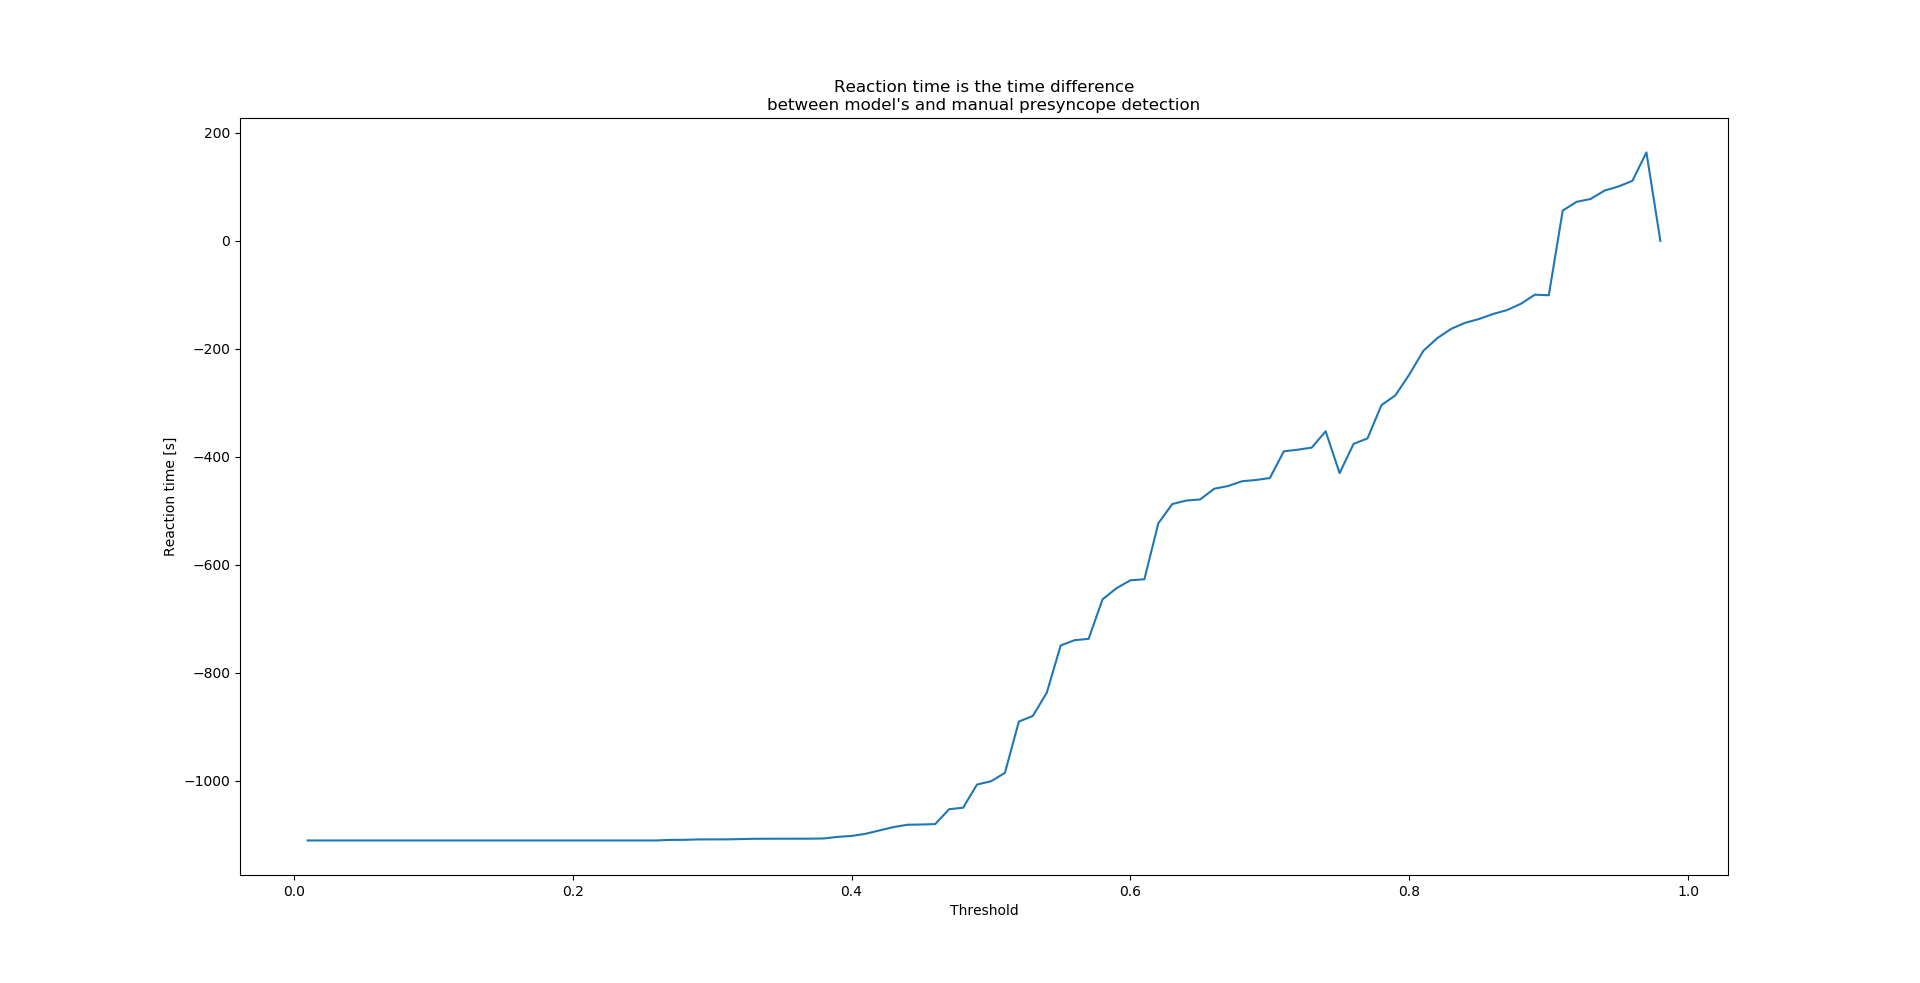
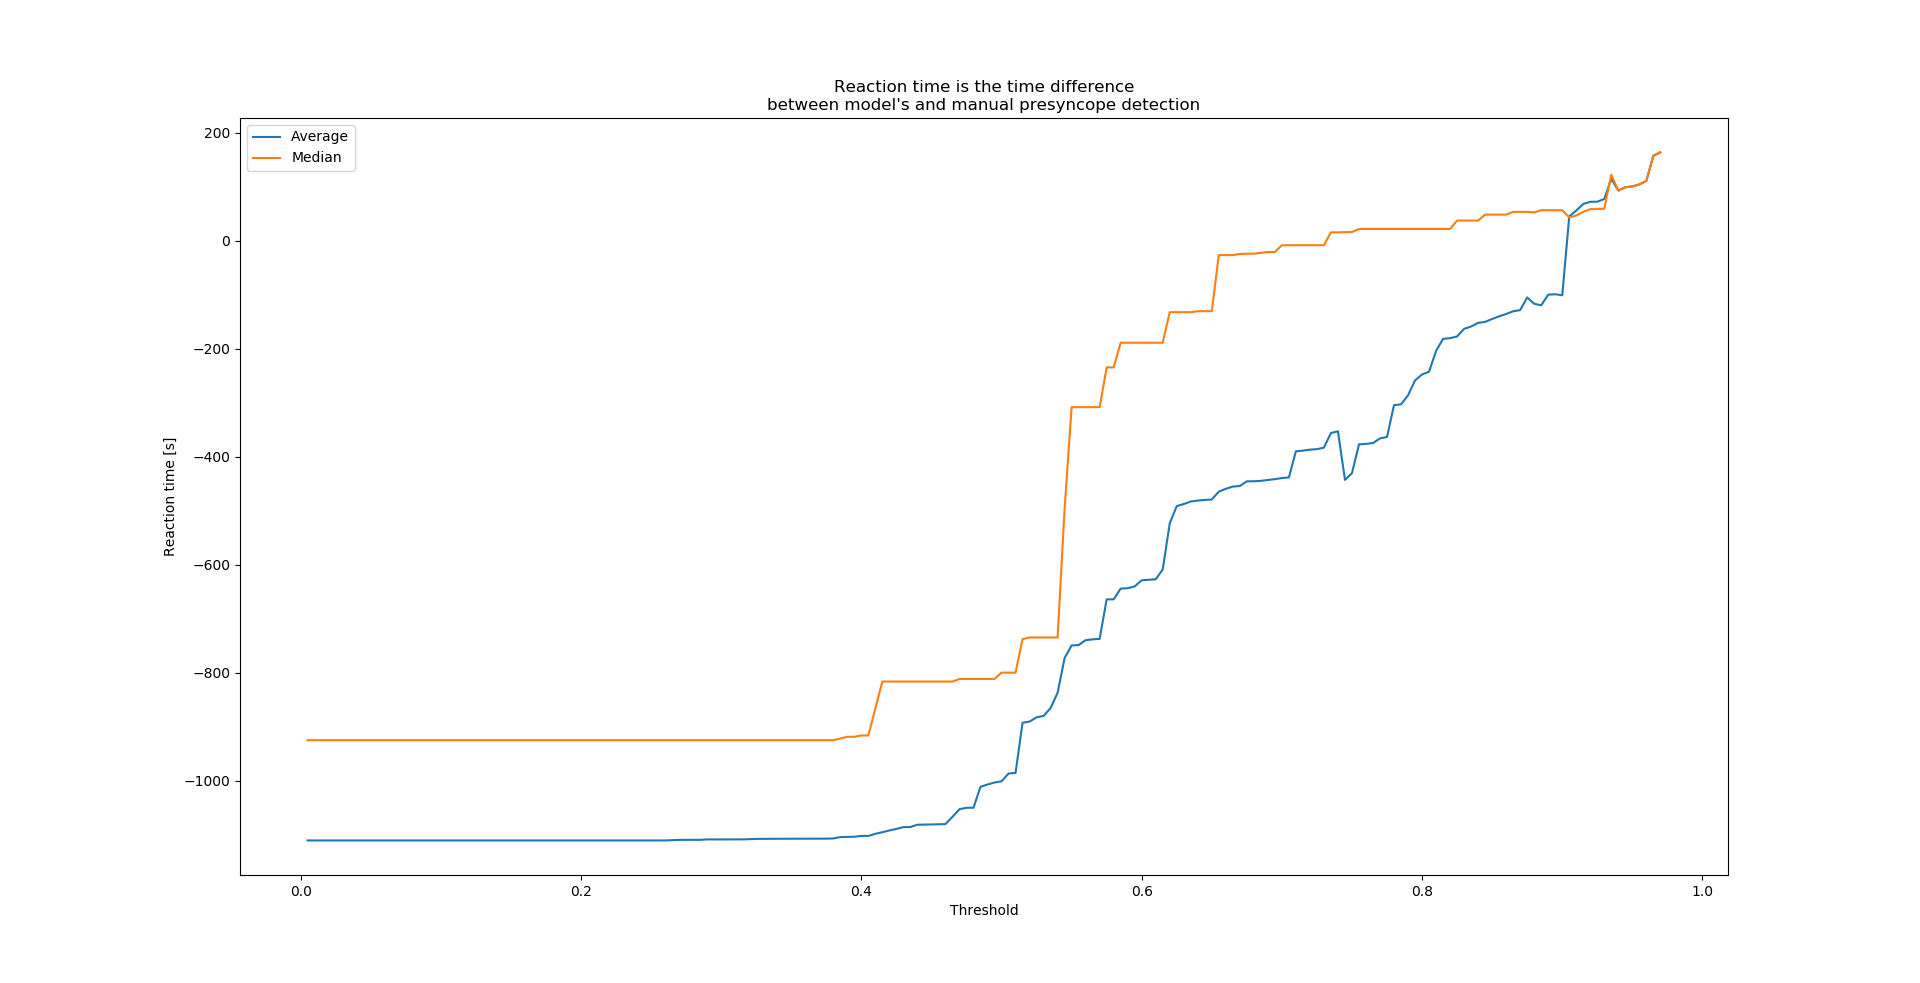
added median time diff to charts

diff --git a/conf_matrix.py b/conf_matrix.py
@@ -17,7 +17,7 @@ path = sys.argv[1]
 
 data = read_csv(path)
 
-density = 0.01
+density = 0.005
 x = []
 y = []
 y2 = []
@@ -37,8 +37,7 @@ for threshold in tqdm(numpy.arange(density,1-density, density)):
   FP = 0;
   TN = 0;
   FN = 0;
-  time_diff_count = 0.00000001
-  time_diff_sum = 0
+  time_diff_list = []
   for c in data:
     real_negative = 'Nosynkope' in c
     max_value = data[c].max()
@@ -52,8 +51,7 @@ for threshold in tqdm(numpy.arange(density,1-density, density)):
           try:
             if len(sys.argv)>2:
               print(str(data_id)+"\t\t"+str(time_diff.item()))
-            time_diff_sum += time_diff.item()
-            time_diff_count += 1
+            time_diff_list.append(time_diff.item())
           except:
             pass
           break
@@ -79,10 +77,13 @@ for threshold in tqdm(numpy.arange(density,1-density, density)):
   NPV = FP / (FP + FN + e)
   f1 = 2*sensitivity*PPV/(sensitivity+PPV+e)
   
+  avg_diff = numpy.mean(time_diff_list)
+  med_diff = numpy.median(time_diff_list)
   if len(sys.argv)>2:
-    print("AVG\t\t"+str(time_diff_sum/time_diff_count))
+    print("AVERAGE\t\t"+str(avg_diff))
+    print("MEDIAN\t\t"+str(med_diff))
   else:
-    y2.append(time_diff_sum/time_diff_count)
+    y2.append([avg_diff, med_diff])
     x3.append(1-specificity)
     y3.append(sensitivity)
  
@@ -118,6 +119,7 @@ if len(sys.argv)<=2:
   pp.plot(x, y2)
   pp.title("Reaction time is the time difference\nbetween model's and manual presyncope detection")
   pp.ylabel("Reaction time [s]")
+  pp.gca().legend(("Average", "Median"))
   pp.xlabel('Threshold')
   pp.show()
   
